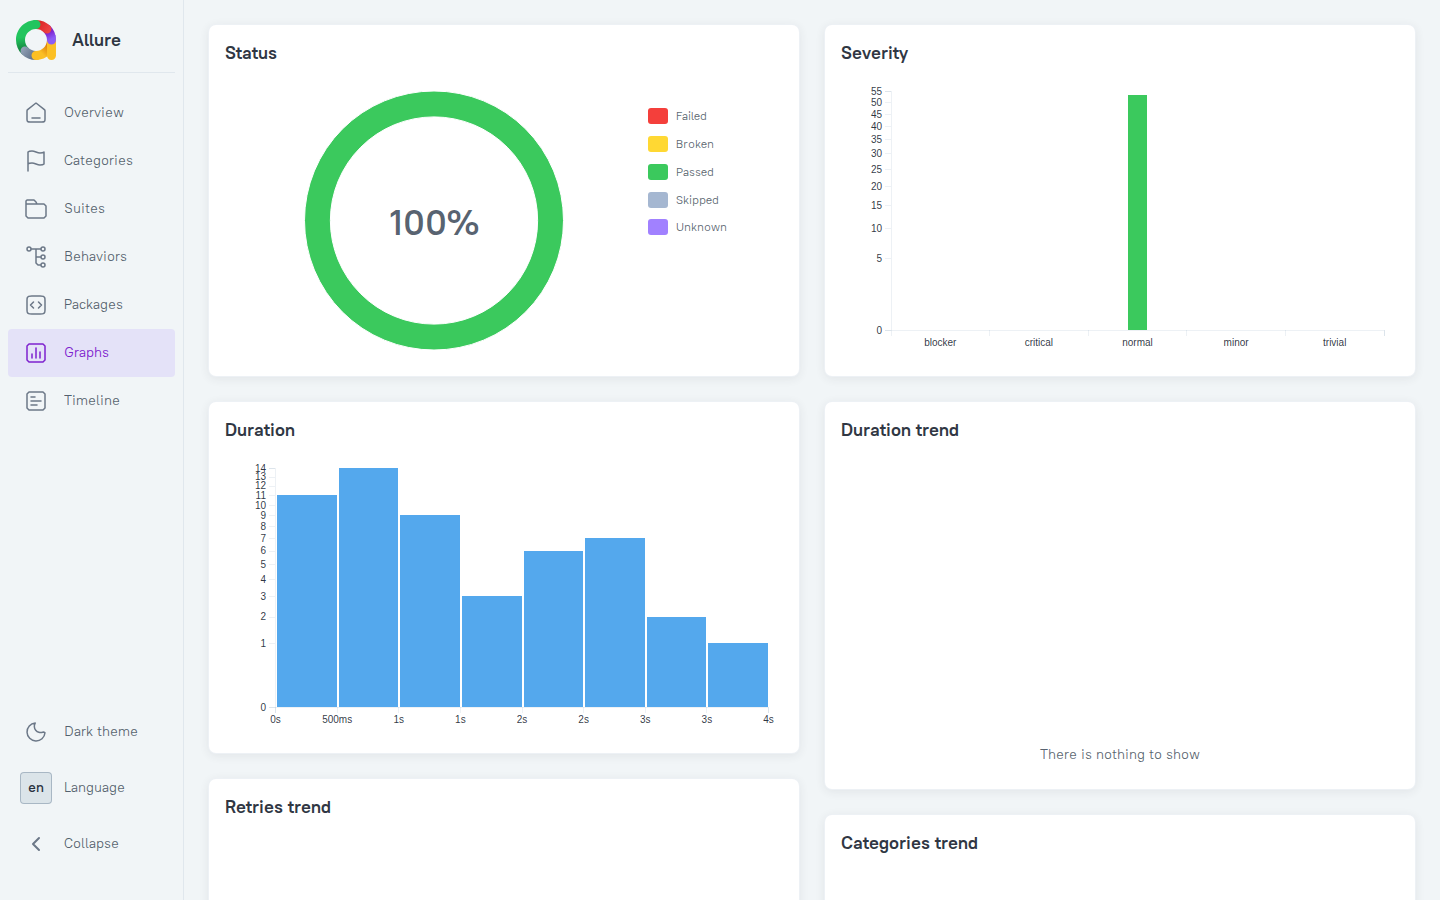
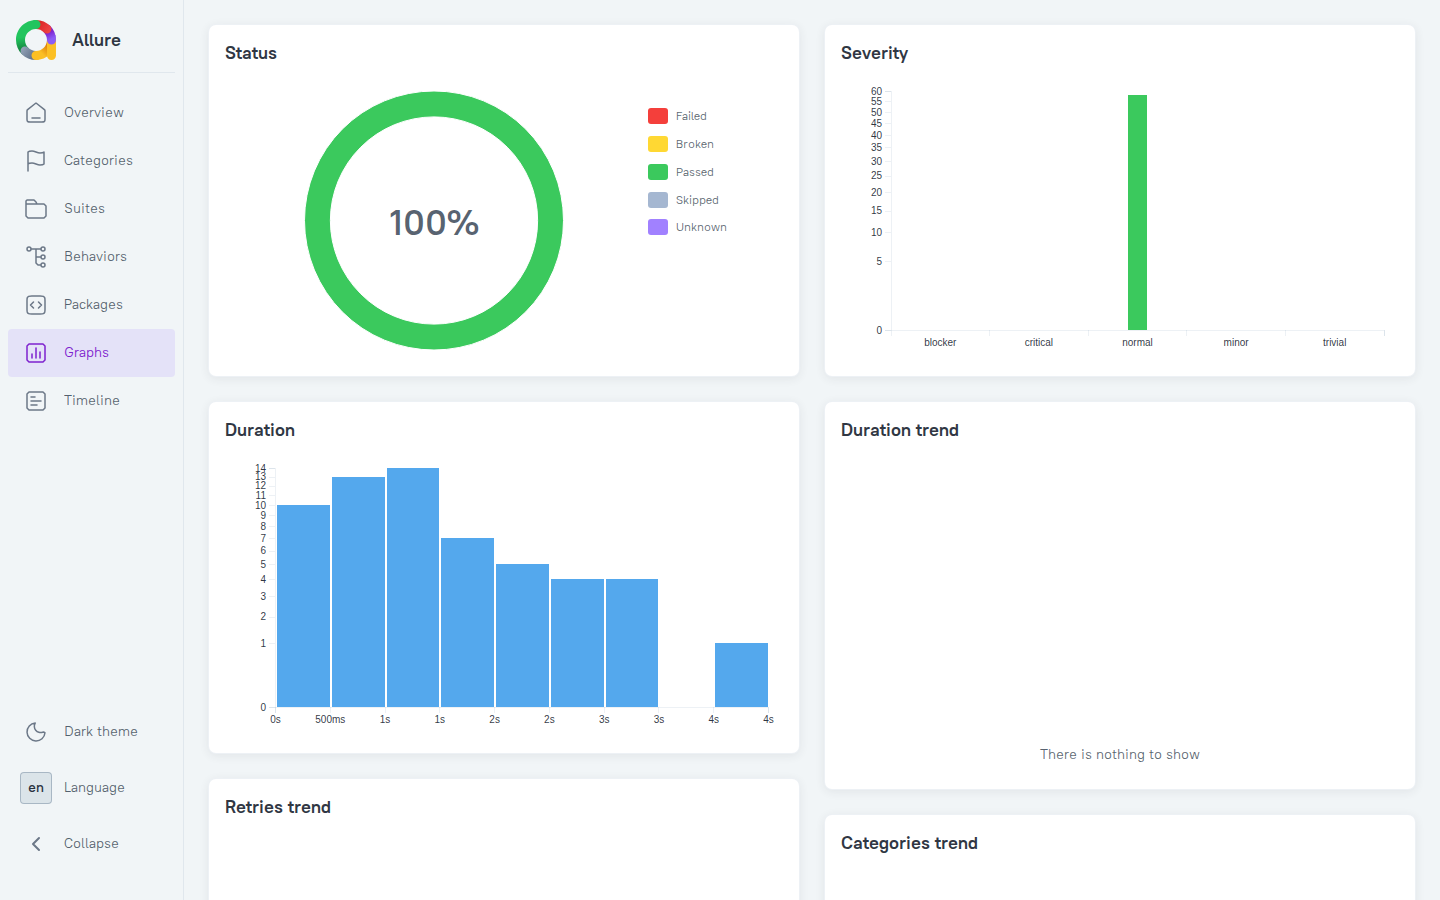
docs: update for 58 tests (redirect hardening, concurrent rate limit, jti, isCorrect)

Changed region(s): [[0.1875, 0.4978, 0.5, 0.8089], [0.5938, 0.0933, 0.625, 0.2178], [0.2188, 0.7778, 0.2812, 0.8089]]

diff --git a/README.md b/README.md
@@ -45,7 +45,7 @@ npm run dev                   # http://localhost:3000
 In a second terminal, with the app running:
 
 ```bash
-npm test                      # 53 Playwright security tests
+npm test                      # 58 Playwright security tests
 npm run allure:generate       # build allure-report/
 npm run allure:serve          # http://localhost:8080
 ```
@@ -59,13 +59,13 @@ The interactive IDOR challenge is at `http://localhost:3000/challenges/idor`.
 
 | Metric            | Value                                   |
 | ----------------- | --------------------------------------- |
-| Total tests       | **53**                                  |
-| Passed / Failed   | **53 / 0**                              |
-| Duration          | 18.4s (6 workers, Chromium/API context) |
+| Total tests       | **58**                                  |
+| Passed / Failed   | **58 / 0**                              |
+| Duration          | 19.4s (6 workers, Chromium/API context) |
 | Last verified run | 2026-10-19                              |
 | CI                | GitHub Actions, Allure report uploaded as an artifact |
 
-Allure overview (53 tests, 100% pass rate, one suite per security area):
+Allure overview (58 tests, 100% pass rate, one suite per security area):
 
 ![Allure overview](docs/screenshots/allure-overview.png)
 
@@ -165,7 +165,7 @@ The current local implementation uses a threshold of:
 5 attempts / 60 seconds
 ```
 
-The Playwright test verifies that repeated failed login attempts eventually receive HTTP `429`. The limit is tracked per email address and stored in PostgreSQL (`LoginRateLimit`), so it survives server restarts and is shared across server instances. Concurrent attempts for the same email are serialized with an advisory lock. The test uses a unique email per run, so it cannot collide with other tests.
+The Playwright test verifies that repeated failed login attempts eventually receive HTTP `429`. The limit is tracked per email address and stored in PostgreSQL (`LoginRateLimit`), so it survives server restarts and is shared across server instances. Concurrent attempts for the same email are serialized with an advisory lock. The tests use a unique email per run, so they cannot collide with other tests. A second test fires 10 concurrent failed logins and expects exactly five `401` and five `429`.
 
 Passwords are stored as bcrypt hashes and verified with `bcrypt.compare`.
 
@@ -177,7 +177,7 @@ tests/security/rate-limit.spec.ts
 
 Result:
 
-**1 passed**
+**2 passed** (sequential limit, concurrent limit)
 
 > Note: the rate limiter is keyed by email only (not by IP address) and is intentionally simplified for the playground. Expired rows are not purged automatically.
 
@@ -238,6 +238,10 @@ Automated coverage includes:
 * JavaScript URL
 * Valid internal path
 * Missing redirect URL
+* Backslash-based external URL (`/\evil.example.com`)
+* Ambiguous paths: encoded backslash or slashes (`%5C`, `%2F`), triple slash, whitespace
+
+The validator accepts only paths starting with a single `/`, and rejects `//`, `/\`, encoded `%2f`/`%5c`, control characters and whitespace.
 
 Test file:
 
@@ -247,7 +251,7 @@ tests/security/open-redirect.spec.ts
 
 Result:
 
-**5 passed**
+**7 passed**
 
 ---
 
@@ -324,6 +328,7 @@ Another user's finding                → Not exposed
 Unknown challenge slug                → 404
 Invalid severity                      → Rejected
 Empty or oversized (>5000) evidence   → Rejected
+Client-supplied isCorrect: true       → Ignored (stored as false)
 ```
 
 Test file:
@@ -334,7 +339,7 @@ tests/security/finding.spec.ts
 
 Result:
 
-**12 passed**
+**13 passed**
 
 ---
 
@@ -359,10 +364,11 @@ Automated regression tests verify that:
 * Requests without a valid session are rejected (`401`)
 * An expired session cookie is rejected (`401`)
 * Empty, whitespace-only, and over-100-character names are rejected (`400`)
+* A correctly signed session without a `jti` claim is rejected (`401`)
 
 Each test creates its own temporary user, so the per-email login rate limit never couples tests together.
 
-**Status:** Remediated; 8 regression tests passing.
+**Status:** Remediated; 9 regression tests passing.
 
 **Remaining concern:** Sessions are HMAC-signed cookies with server-side revocation on logout
 (`RevokedSession`, keyed by the `jti` claim), but there is no rotation or idle timeout. This lab
@@ -411,31 +417,31 @@ Current coverage:
 | Area                         |  Tests | Result      |
 | ---------------------------- | -----: | ----------- |
 | IDOR / Broken Access Control |      6 | PASS        |
-| Rate Limit                   |      1 | PASS        |
+| Rate Limit                   |      2 | PASS        |
 | Email Enumeration            |      3 | PASS        |
-| Open Redirect                |      5 | PASS        |
-| Finding & Scoring            |     12 | PASS        |
+| Open Redirect                |      7 | PASS        |
+| Finding & Scoring            |     13 | PASS        |
 | Race Condition               |      3 | PASS        |
-| Mass Assignment              |      8 | PASS        |
+| Mass Assignment              |      9 | PASS        |
 | Sensitive Data Exposure      |      9 | PASS        |
 | RBAC / Privilege Escalation  |      5 | PASS        |
 | Findings error handling      |      1 | PASS        |
-| **Total**                    | **53** | **53 PASS** |
+| **Total**                    | **58** | **58 PASS** |
 
-Run the complete suite (53 tests):
+Run the complete suite (58 tests):
 
 ```bash
 npx playwright test
 ```
 
-`npx playwright test tests/security` runs only the 52 tests in the security directory. The findings error-handling test lives in `tests/` and is skipped by that narrower command.
+`npx playwright test tests/security` runs only the 57 tests in the security directory. The findings error-handling test lives in `tests/` and is skipped by that narrower command.
 
 Latest confirmed execution:
 
 ```text
-Running 53 tests using 6 workers
+Running 58 tests using 6 workers
 
-53 passed (18.4s)
+58 passed (19.4s)
 0 failed
 ```
 
@@ -491,6 +497,7 @@ Generated Allure artifacts are excluded from Git through `.gitignore`. Committed
 | IDOR               | Forged `X-User-ID` header              | `401 Unauthorized`       | ✅         |
 | IDOR               | Invalid order ID                       | `400 Bad Request`        | ✅         |
 | Rate Limit         | Repeated failed login attempts (DB-backed) | `429 Too Many Requests` | ✅      |
+| Rate Limit         | 10 concurrent failed logins            | Exactly 5 × `401`, 5 × `429` | ✅    |
 | Email Enumeration  | Existing/non-existing email comparison | Generic response         | ✅         |
 | Email Enumeration  | Invalid JSON / non-string email        | `400 Bad Request`        | ✅         |
 | Open Redirect      | External URL                           | `400 Bad Request`        | ✅         |
@@ -498,11 +505,14 @@ Generated Allure artifacts are excluded from Git through `.gitignore`. Committed
 | Open Redirect      | JavaScript URL                         | `400 Bad Request`        | ✅         |
 | Open Redirect      | Valid internal redirect                | `307 Temporary Redirect` | ✅         |
 | Open Redirect      | Missing URL                            | `400 Bad Request`        | ✅         |
+| Open Redirect      | Backslash / encoded / whitespace paths | `400 Bad Request`        | ✅         |
 | Finding Validation | Correct security finding               | Score `100`              | ✅         |
 | Finding Validation | Incorrect finding                      | Score `0`                | ✅         |
+| Finding Validation | Client sends `isCorrect: true`         | Ignored, stored `false`  | ✅         |
 | Race Condition     | Concurrent coupon redemption           | Only one succeeds        | ✅         |
 | Race Condition     | Repeat redemption (same user / used-up coupon) | `409` / rejected  | ✅         |
 | Mass Assignment    | Expired session cookie                 | `401 Unauthorized`       | ✅         |
+| Mass Assignment    | Signed session without `jti`           | `401 Unauthorized`       | ✅         |
 | Mass Assignment    | Empty or over-100-character name       | `400 Bad Request`        | ✅         |
 | Mass Assignment    | Modify protected profile attributes    | Protected fields unchanged | ✅       |
 | Mass Assignment    | Forge `userId` to update another user  | Other user unchanged     | ✅         |
@@ -581,7 +591,7 @@ Start Next.js
         ↓
 Probe API Routes (unauthenticated requests must return 401)
         ↓
-Run Security Tests (53)
+Run Security Tests (58)
         ↓
 Generate Allure Report
         ↓
@@ -785,8 +795,8 @@ http://localhost:3000
 ### 7. Run security tests
 
 ```bash
-npm test                    # all 53 tests
-npm run test:security       # only the 52 tests in tests/security
+npm test                    # all 58 tests
+npm run test:security       # only the 57 tests in tests/security
 ```
 
 ### 8. Generate Allure report

diff --git a/SECURITY-TEST-REPORT.md b/SECURITY-TEST-REPORT.md
@@ -6,7 +6,7 @@ This project is a **QA Security Playground** designed to demonstrate practical s
 
 The security test suite is implemented using **Playwright** and covers common web application security scenarios.
 
-The project currently contains **53 automated security tests** covering:
+The project currently contains **58 automated security tests** covering:
 
 * IDOR / Broken Access Control
 * Rate Limit
@@ -26,16 +26,16 @@ Allure is used to generate a visual test report from the Playwright execution re
 | Security Area                | Test Cases | Result      |
 | ---------------------------- | ---------: | ----------- |
 | IDOR / Broken Access Control |          6 | PASS        |
-| Rate Limit                   |          1 | PASS        |
+| Rate Limit                   |          2 | PASS        |
 | Email Enumeration            |          3 | PASS        |
-| Open Redirect                |          5 | PASS        |
-| Finding & Scoring            |         12 | PASS        |
+| Open Redirect                |          7 | PASS        |
+| Finding & Scoring            |         13 | PASS        |
 | Race Condition               |          3 | PASS        |
-| Mass Assignment              |          8 | PASS        |
+| Mass Assignment              |          9 | PASS        |
 | Sensitive Data Exposure      |          9 | PASS        |
 | RBAC / Privilege Escalation  |          5 | PASS        |
 | Findings error handling      |          1 | PASS        |
-| **Total**                    |     **53** | **53 PASS** |
+| **Total**                    |     **58** | **58 PASS** |
 
 ---
 
@@ -147,7 +147,9 @@ The test sends seven failed logins for a unique email (`rate-limit-<timestamp>@l
 
 Result:
 
-**1 passed**
+**2 passed**
+
+A second test sends 10 concurrent failed logins for another unique email and asserts exactly five `401` and five `429`, verifying that the advisory lock prevents concurrent requests from bypassing the limit.
 
 > The limiter is keyed by email only (not by IP) and expired rows are not purged automatically. This is intentionally simplified for the local security playground.
 
@@ -257,6 +259,9 @@ javascript:alert(1)
 | JavaScript URL        |      400 |
 | Internal path         |      307 |
 | Missing URL           |      400 |
+| Backslash / encoded slash / whitespace path | 400 |
+
+The validator also rejects `/\evil.example.com`, encoded `%2f`/`%5c`, control characters and whitespace, because browsers may normalize a backslash to a slash.
 
 ### Automated Test
 
@@ -266,7 +271,7 @@ tests/security/open-redirect.spec.ts
 
 Result:
 
-**5 passed**
+**7 passed**
 
 ---
 
@@ -433,10 +438,11 @@ Findings are created and read for the authenticated session user. A `userId` in 
 | Invalid severity                            |          Rejected |
 | Evidence over 5000 characters               |          Rejected |
 | Empty evidence                              |          Rejected |
+| Client-supplied `isCorrect: true`           | Ignored (stored false) |
 
 Result:
 
-**12 passed**
+**13 passed**
 
 ---
 
@@ -556,13 +562,13 @@ Generated Allure artifacts are excluded from version control. In CI the report i
 ### Visual Evidence
 
 Screenshots taken from the Allure report generated for the run in section 14
-(53 tests, 100% pass rate, 10 suites).
+(58 tests, 100% pass rate, 10 suites).
 
 **Overview**
 
 ![Allure overview](docs/screenshots/allure-overview.png)
 
-**Suites** (one per security area; 53 passed, 0 failed, 0 broken, 0 skipped)
+**Suites** (one per security area; 58 passed, 0 failed, 0 broken, 0 skipped)
 
 ![Allure suites](docs/screenshots/allure-suites.png)
 
@@ -601,12 +607,13 @@ explicitly permitted `name` field. The acting user is taken from the signed
 - A tampered session cookie is rejected (`401`).
 - Requests without a valid session are rejected (`401`).
 - An expired session cookie is rejected (`401`).
+- A correctly signed session without a `jti` claim is rejected (`401`).
 - Empty, whitespace-only, and over-100-character names are rejected (`400`).
 
 Each test creates its own temporary user (with a bcrypt-hashed password) and
 deletes it afterward, so the per-email login rate limit cannot couple tests.
 
-**Result:** 8/8 tests passed.
+**Result:** 9/9 tests passed.
 
 ## Remaining Risk
 
@@ -739,21 +746,21 @@ is not consumed.
 
 The complete automated security test suite currently contains:
 
-**53 security tests**
+**58 security tests**
 
 Latest confirmed execution:
 
 ```text
-Running 53 tests using 6 workers
+Running 58 tests using 6 workers
 
-53 passed (18.4s)
+58 passed (19.4s)
 0 failed
 ```
 
 Execution time:
 
 ```text
-18.4s
+19.4s
 ```
 
 Run date: 2026-10-19, against a freshly started local Next.js dev server and
@@ -761,7 +768,7 @@ seeded PostgreSQL database. The visual evidence for this run is in section 10.
 
 ### Final Result
 
-**53/53 security tests passed**
+**58/58 security tests passed**
 
 ---
 
@@ -780,7 +787,7 @@ The CI pipeline performs:
 7. Seed deterministic test data
 8. Start the application
 9. Probe API routes (unauthenticated requests must return `401`)
-10. Execute security tests (`npx playwright test`, 53 tests)
+10. Execute security tests (`npx playwright test`, 58 tests)
 11. Generate the Allure report
 12. Upload the report as the `allure-security-report` artifact
 
@@ -853,6 +860,6 @@ Integrate With CI/CD
 
 The current implementation successfully validates:
 
-**53 automated security tests with 0 failures.**
+**58 automated security tests with 0 failures.**
 
 The project is intentionally designed as a learning and portfolio environment rather than a production security platform.

diff --git a/docs/test-cases.md b/docs/test-cases.md
@@ -30,9 +30,13 @@ Automated test references are included for traceability.
 | TC-REDIR-003 | JavaScript redirect URL | Unsafe redirect is blocked | Critical | `tests/security/open-redirect.spec.ts` |
 | TC-REDIR-004 | Internal redirect path | Internal redirect is allowed | Medium | `tests/security/open-redirect.spec.ts` |
 | TC-REDIR-005 | Missing redirect URL | Request is rejected | Low | `tests/security/open-redirect.spec.ts` |
+| TC-REDIR-006 | Backslash-based external URL (`/\evil.example.com`) | Unsafe redirect is blocked (400) | High | `tests/security/open-redirect.spec.ts` |
+| TC-REDIR-007 | Ambiguous paths (encoded slash/backslash, `///`, whitespace) | Unsafe redirect is blocked (400) | High | `tests/security/open-redirect.spec.ts` |
 | TC-MA-006 | Expired session cookie on profile update | Request is rejected | High | `tests/security/mass-assignment.spec.ts` |
 | TC-MA-007 | Empty or whitespace-only name | Request is rejected (400) | Medium | `tests/security/mass-assignment.spec.ts` |
 | TC-MA-008 | Name longer than 100 characters | Request is rejected (400) | Medium | `tests/security/mass-assignment.spec.ts` |
+| TC-MA-009 | Correctly signed session without a `jti` claim | Request is rejected (401) | High | `tests/security/mass-assignment.spec.ts` |
+| TC-RATE-002 | Ten concurrent failed logins (unique email) | Exactly 5 × 401 and 5 × 429 | High | `tests/security/rate-limit.spec.ts` |
 | TC-RATE-001 | Five failed logins, then two more (unique email, PostgreSQL-backed limit) | 401 ×5, then 429 ×2 | High | `tests/security/rate-limit.spec.ts` |
 | TC-ENUM-001 | Compare responses for existing and non-existing emails | Account existence is not distinguishable from responses | Medium | `tests/security/email-enumeration.spec.ts` |
 | TC-ENUM-002 | Invalid JSON body | Request is rejected (400) | Low | `tests/security/email-enumeration.spec.ts` |
@@ -50,6 +54,7 @@ Automated test references are included for traceability.
 | TC-FIND-001 | Finding submission and scoring (correct, incorrect, latest, other user's) | Correct scores and no cross-user exposure | High | `tests/security/finding.spec.ts` |
 | TC-FIND-002 | Unauthenticated submission or forged userId | Rejected / not impersonated | Critical | `tests/security/finding.spec.ts` |
 | TC-FIND-003 | Unknown slug, invalid severity, empty or oversized evidence | Rejected (404 / 400) | Medium | `tests/security/finding.spec.ts` |
+| TC-FIND-004 | Client sends `isCorrect: true` | Ignored; finding stored as incorrect | High | `tests/security/finding.spec.ts` |
 | TC-ERR-001 | Finding creation fails internally | Generic 500; no internal details leaked | High | `tests/findings-error-handling.spec.ts` |
 
 ## Execution Evidence
@@ -60,9 +65,9 @@ Automated test references are included for traceability.
 | Test type | API security testing |
 | Evidence sources | Playwright output and Allure report (`docs/screenshots/`) |
 | Last execution | 2026-10-19, local environment |
-| Result | 53 passed, 0 failed, 0 skipped (18.4s) |
+| Result | 58 passed, 0 failed, 0 skipped (19.4s) |
 
-The test cases above group the 53 automated tests that passed in that run
+The test cases above group the 58 automated tests that passed in that run
 (some rows cover several closely related tests). Related documents:
 [IDOR regression proof](idor-regression-proof.md) and the
 [Security Test Report](../SECURITY-TEST-REPORT.md).

diff --git a/docs/idor-regression-proof.md b/docs/idor-regression-proof.md
@@ -34,7 +34,7 @@ The complete Playwright suite also passed with 35 tests and zero
 failures in 13.9 seconds.
 
 > Note: these figures are from the original experiment, when the suite had
-> 35 tests. The suite has since grown to 53 tests (all passing in the latest
+> 35 tests. The suite has since grown to 58 tests (all passing in the latest
 > run); the IDOR tests themselves are unchanged (6 tests).
 
 The vulnerable implementation was used only for a controlled local
